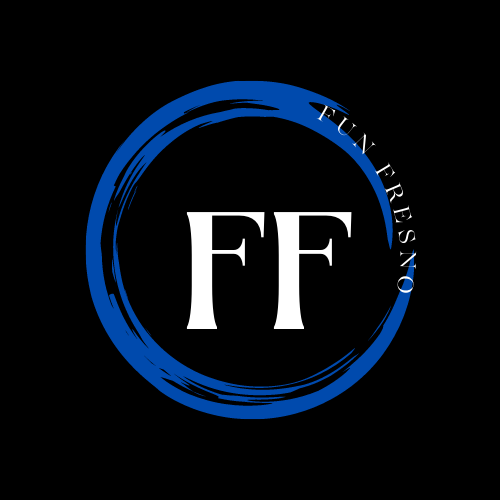
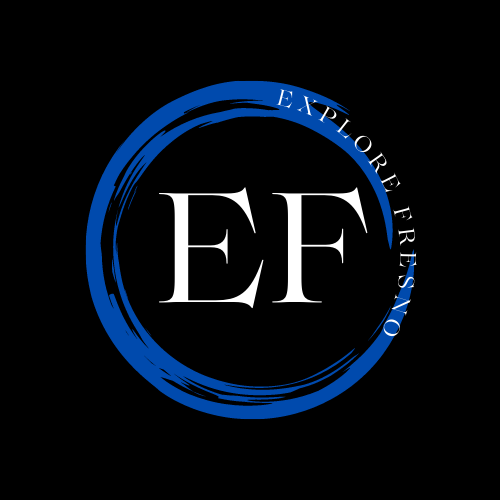
changed description

Changed region(s): [[0.33, 0.36, 0.75, 0.66], [0.54, 0.18, 0.84, 0.69]]

diff --git a/index.html b/index.html
@@ -30,12 +30,12 @@
         <div class="opener_container">
             <img src="./photos/background_main_cropped.jpg" alt="a picture of shuteye peak">
             <div class="opener_child">
-                <h1>Welcome to FunFresno</h1>
+                <h1>Welcome to ExploreFresno</h1>
                 <h2>FresNO? More like FresYES!</h2>
             </div>
         </div>
         <div class="about">
-            <p>Many people have called Fresno the armpit of California. We're here to show you just how much fun can be had in this little big city.</p>
+            <p>Fresno offers much to do when it comes to getting outside. I've compiled a few of my favorite outdoor locations found within Fresno County.</p>
         </div>
         <div class="outdoor_header header">
             <h2>Outdoor Fun</h2>
